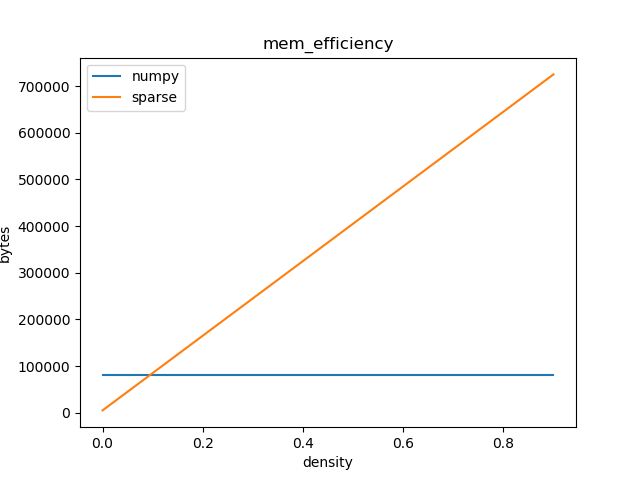
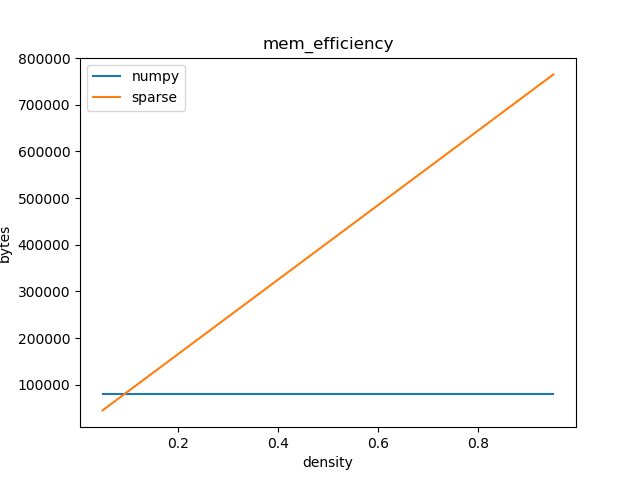
Fixed up all the tests

diff --git a/test_libsparse.py b/test_libsparse.py
@@ -10,7 +10,7 @@ from hypothesis import given, settings
 from hypothesis.strategies import lists, integers, floats, tuples, composite
 from hypothesis.extra.numpy import arrays
 
-MIN_VALUE = 1
+MIN_VALUE = -100
 MAX_VALUE = 100
 SHAPE = (50, 50)
 
@@ -28,9 +28,9 @@ def shape_generator(draw):
 
     return shape
 
-@given(int_array=arrays("int32", shape=SHAPE, elements=integers(min_value=MIN_VALUE, max_value=MAX_VALUE)),
-       float_array=arrays("float64", shape=SHAPE, elements=floats(min_value=MIN_VALUE, max_value=MAX_VALUE)))
-def test_csr_construct(int_array, float_array):
+@given(int_array=arrays(np.int, shape=SHAPE, elements=integers(min_value=MIN_VALUE, max_value=MAX_VALUE).filter(lambda x: np.alltrue(x != np.zeros_like(x)))),
+       float_array=arrays(np.float, shape=SHAPE, elements=floats(min_value=MIN_VALUE, max_value=MAX_VALUE).filter(lambda x: np.alltrue(x != np.zeros_like(x)))))
+def test_nonzero_csr_construct(int_array, float_array):
     """
     Author: Simon Glennemeier-Marke
     """
@@ -48,7 +48,7 @@ def test_zeros_valueerror():
         assert sp.sparse(np.zeros((10, 10)))
 
 
-@given(in1=arrays("float64", shape=SHAPE, elements=floats(min_value=MIN_VALUE, max_value=MAX_VALUE)))
+@given(in1=arrays(np.float, shape=SHAPE, elements=floats(min_value=MIN_VALUE, max_value=MAX_VALUE)).filter(lambda x: np.alltrue(x != np.zeros_like(x))))
 def test_matrix_algebra(in1):
     """
     Author: Simon Glennemeier-Marke
@@ -58,25 +58,25 @@ def test_matrix_algebra(in1):
     assert np.allclose(in1.transpose(), sp1.T().toarray())
 
 
-@given(in1=arrays("float64", shape=SHAPE, elements=floats(min_value=MIN_VALUE, max_value=MAX_VALUE)),
-       in2=arrays("float64", shape=SHAPE, elements=floats(min_value=MIN_VALUE, max_value=MAX_VALUE)))
+@given(in1=arrays(np.float, shape=SHAPE, elements=floats(min_value=MIN_VALUE, max_value=MAX_VALUE)).filter(lambda x: np.alltrue(x != np.zeros_like(x))),
+       in2=arrays(np.float, shape=SHAPE, elements=floats(min_value=MIN_VALUE, max_value=MAX_VALUE)).filter(lambda x: np.alltrue(x != np.zeros_like(x))))
 def test_matrix_matrix_algebra(in1, in2):
     """
     Author: Simon Glennemeier-Marke
     """
     sp1 = sp.sparse(in1)
     sp2 = sp.sparse(in2)
-    assert np.allclose(in1+in2, sp1.__add__(sp2))
-    assert np.allclose(in1-in2, sp1.__sub__(sp2))
-    assert np.allclose(in1@in2,  sp1.__mul__(sp2))
+    assert np.allclose(in1+in2, sp1.__add__(sp2).toarray())
+    assert np.allclose(in1-in2, sp1.__sub__(sp2).toarray())
+    assert np.allclose(in1@in2,  sp1.__mul__(sp2).toarray())
 
 
-@given(in1=arrays("float64", shape=shape_generator(), elements=floats(min_value=MIN_VALUE, max_value=MAX_VALUE)))
+@given(in1=arrays(np.float, shape=tuples(integers(min_value=2, max_value=50), integers(min_value=2, max_value=50)), elements=floats(min_value=MIN_VALUE, max_value=MAX_VALUE)).filter(lambda x: np.alltrue(x != np.zeros_like(x))))
 def test_quadratic(in1):
     """
     Author: Simon Glennemeier-Marke
     """
-    np_bool = (in1.shape[0] == in1.shape[0])
+    np_bool = (in1.shape[0] == in1.shape[1])
     sp_bool = sp.quadratic(sp.sparse(in1))
     assert np_bool == sp_bool
     with pytest.raises(AttributeError):
@@ -89,13 +89,10 @@ def test_mem_overhead():
     """
     size_sparse = []
     size_numpy = []
-    # bar1 = progressbar.ProgressBar(min_value=10, max_value=1000)
     for N in range(10, 1000, 10):
         mat = sp.random_banded(N, N//4)
         size_numpy.append(asizeof.asizeof(mat))
         size_sparse.append(asizeof.asizeof(sp.sparse(mat)))
-        # print(N, size_numpy[-1]//1000, "kB", size_sparse[-1]//1000, "kB")
-        # bar1.update(N)
     fig = plt.figure()
     name = "mem_overhead"
     fig: plt.Figure
@@ -119,13 +116,10 @@ def test_mem_efficiency():
     size_numpy = []
     density = np.delete(np.arange(0, 1, 0.05), 0)
 
-    # bar2 = progressbar.ProgressBar(min_value=0, max_value=1)
     for rho in density:
         mat = scipy.sparse.random(100, 100, density=rho).toarray()
         size_numpy.append(asizeof.asizeof(mat))
         size_sparse.append(asizeof.asizeof(sp.sparse(mat)))
-        # print(rho, str(size_numpy[-1])+" B", str(size_sparse[-1])+" B")
-        # bar2.update(rho)
     fig = plt.figure()
     name = "mem_efficiency"
     fig: plt.Figure

diff --git a/libsparse.py b/libsparse.py
@@ -85,7 +85,6 @@ class sparse(object):
     def __init__(self, array):
         temp = array if (type(array) == np.ndarray) else np.array(array)
         if np.count_nonzero(temp) == 0:
-            # print(temp)
             raise ValueError("Sparse arrays can not be all zeros")
         self.sparsity = 1 - np.count_nonzero(temp) / temp.size
         self.shape = temp.shape
@@ -175,10 +174,11 @@ class sparse(object):
                [3.0, 4.0]])
         '''
         try:
-            assert float(value)
+            value = float(value)
         except:
-            if type(value) != int and type(value) != float:
-                raise TypeError('Value is of type {}, but needs to be int or float.'.format(type(value)))
+            if type(value) not in [int, float, np.int, np.float]:
+                raise TypeError(f'Value is of type {type(value)}, but needs to be int or float.')
+            raise TypeError("Value was not castable to float")
 
         if len(key) != 2:
             raise IndexError('Index has to be tuple.')
